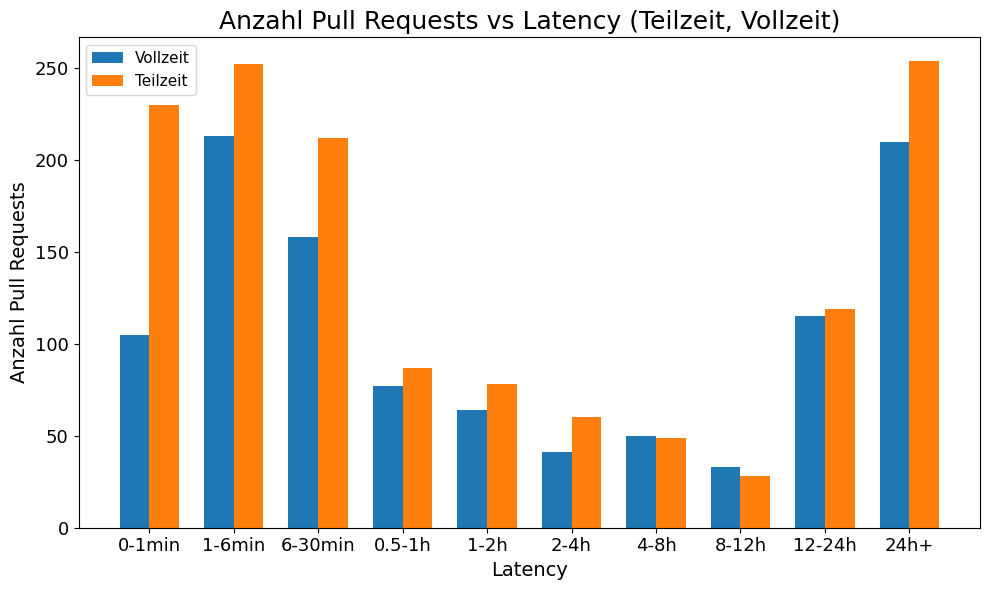
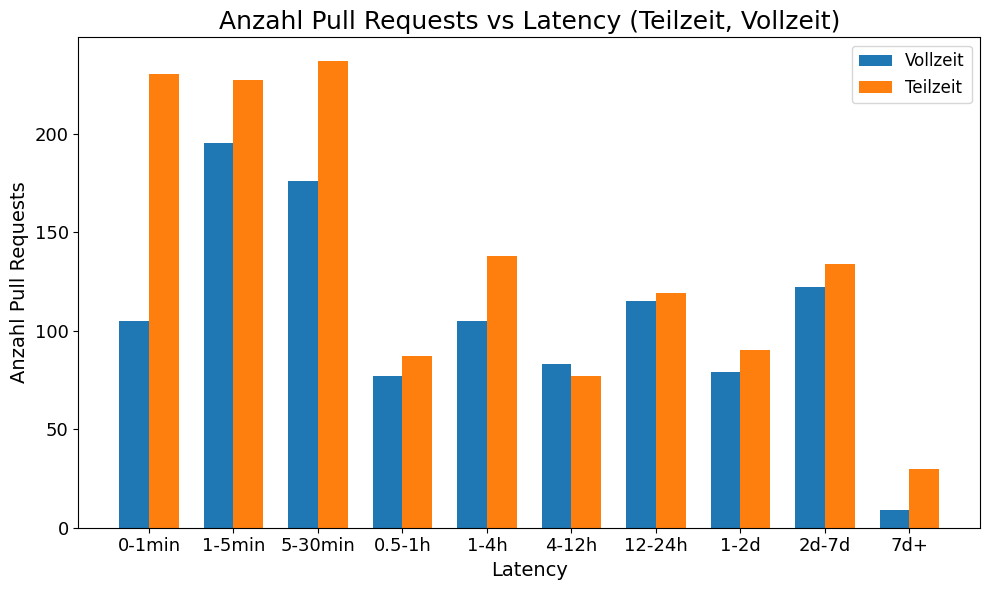
Updates from Overleaf

diff --git a/Chapters/Chapter4.tex b/Chapters/Chapter4.tex
@@ -32,13 +32,16 @@ Teilzeitstudierende nutzen Pull Requests effizienter als Vollzeitstudierende.
 Wir gehen davon aus, dass Teilzeitstudierende durch ihre Arbeit mehr Erfahrung in der Durchführung von Softwareprojekten und somit auch in der Verwendung von Pull Requests haben. Dies kann sich in Anzahl, Grösse aber auch Kommentare unterscheiden. 
 
 
+Für die ersten Experimente wurden die Repositories der Racetrack-Projekte ausgewertet. Wie im Kapitel \secref{sec:Projektmodule} erwähnt, findet dieses Projekt im Kontext des Projektmoduls 2 als erstes Projekt statt. Dieses dauert ungefähr vier Wochen, wobei die genaue Anzahl der Tage pro Klasse variieren kann. Das Grundgerüst des Sourcecodes wird in der Aufgabenstellung mitgeliefert, was die Vergleichbarkeit der Projekte erhöht. Ausserdem haben die Studenten schon Erfahrung mit der Handhabung von PullRequests. 
+
+\newpage
 \section{Churn vs Latency}
 Zur Klärung der \fref{forschungsfrage1}: "\textit{Besteht ein Zusammenhang zwischen der Latency eines Pull
 Requests (Zeit bis zum Merge oder Schliessung) und dem Churn (Anzahl geänderter Codezeilen) des jeweiligen Pull Requests?}" werden die geminten Repository Daten in einem Jupiter Notebook aufbereitet und graphisch dargestellt. Dazu werden die im Kapitel \secref{sec:Metriken} erwähnten Metriken \textit{createTime} und \textit{closeTime} gemined und damit die einzelnen Latencies berechnet. Um die Latency-Daten besser vergleichen zu können, werden diese noch vom Datumsformat in Stunden umgerechnet. Des Weiteren werden die Metriken  \textit{additions} und  \textit{deleteions} aus den Pull Requests extrahiert, um den Churn zu berechnen.
 
 \subsection{Datenanalyse}
 Zum besseren Verständnis der \textit{latency}- und \textit{churn}- Werte wird zunächst eine allgemeine Analyse der Daten durchgeführt.
-Die Analyse basiert auf 2435 extrahierten Pull Requests. In der folgenden Tabelle werden die wichtigsten Kennzahlen aufgezeigt.
+Die Analyse basiert auf 2435 extrahierten Pull Requests. Wovon im Durchschnitt 34.3 Pull Requests pro Repository erstellt werden. In der folgenden Tabelle werden die wichtigsten Kennzahlen aufgezeigt.
 
 
 \begin{table}[htbp]
@@ -74,7 +77,7 @@ Die \autoref{fig:boxplot-latency} zeigt ebenfalls, dass viele Pull Requests schn
     \caption{Boxplot Latency}
     \label{fig:boxplot-latency}
 \end{figure}
-
+ \newpage
 Der Boxplot in der \autoref{fig:boxplot-churn} zeigt, dass es viele kleine Pull Requests mit wenigen Codezeilenänderungen gibt. Wie bereits bei der \textit{latency} wurde festgestellt, dass es eine Reihe von Ausreissern gibt, von denen einige besonders hervorstechen. Diese befinden sich bei über 10'000 Zeilenänderungen. In diesem Fall liegt die Anzahl der Ausreisser bei 9.6\,\%.
 
 \begin{figure}[htbp]
@@ -83,10 +86,10 @@ Der Boxplot in der \autoref{fig:boxplot-churn} zeigt, dass es viele kleine Pull 
     \caption{Boxplot Churn}
     \label{fig:boxplot-churn}
 \end{figure}
-
+\newpage
 Werden die Ausreisser beider Metriken kumulativ aus allen Datensätzen herausgefiltert, bleiben 1887 Pull Requests übrig, was 77.5\,\% entspricht. Das Herausfiltern dieser Daten stellt einen erheblichen Eingriff in die Datenbasis dar und wird daher nicht pauschal vorgenommen.
 
-\subsection{Erbnisse}
+\subsection{Ergebnisse}
 Um festzustellen, ob zwischen den Metriken \textit{latency} und \textit{churn} ein Zusammenhang besteht wird die Spearman Rangkorrelation angewendet. Dafür wird die oben erwähnte \autoref{eqn:spearman} verwendet. Diese wird anhand der Phython Library \textit{pandas} berechnet. Als Ergebnis erreichte der Rangkorrelationskoeffizient einen Wert von 0.17. Dieser Wert liegt sehr Nahe bei null und zeigt somit keinen spezifischen Zusammenhang zwischen den beiden Metriken auf. 
 
 Wie bereits erwähnt, weisen die Daten einen hohen Anteil an Ausreissern auf. Deshalb soll überprüft werden, ob die Metriken eine Korrelation besitzen, wenn diese Ausreisser herausgefiltert werden. In diesem Fall erhöht sich der Koeffizient auf 0.2, zeigt aber weiterhin keinen eindeutigen Zusammenhang zwischen den Metriken.
@@ -94,66 +97,149 @@ Wie bereits erwähnt, weisen die Daten einen hohen Anteil an Ausreissern auf. De
 \textbf{Zusammenfassend kann zur \fref{forschungsfrage1} festgestellt werden, dass die Metriken \textit{latency} und \textit{churn} keinen Zusammenhang aufweisen.}
 
 \section{Hypothese 2: Teilzeitstudierende nutzen Pull Requests effizienter als Vollzeitstudierende}
-Zur detaillierten Analyse der Hypothese erfolgt eine Aufteilung der Repository-Daten auf Teilzeit- und Vollzeitklassen.
+Zur detaillierten Analyse der Hypothese erfolgt eine Aufteilung der Repository-Daten auf Teilzeit- und Vollzeitklassen. Die Anzahl der Pull Requests der Teilzeitklassen beläuft sich auf 1369 und jene der Vollzeitklassen auf 1066. Dabei werden durchschnittlich 31.8 Pull Requests von den Teilzeitstudierenden erstellt und 39.5 von den Vollzeitstudierenden. In der folgenden Tabelle werden die wichtigsten Kennzahlen aufgezeigt.
 
-// TODO überarbeiten
+\begin{table}[htbp]
+    \centering
+    \caption{Kennzahlen zu \textit{Latency} und \textit{Churn} von Teilzeit- und Vollzeitklassen}
+    \begin{tabular}{@{}lrrrr@{}}
+        \toprule
+        \makecell{}&
+        \makecell{\textbf{Latency (Std.)} \\ \textbf{Teilzeit}}&
+        \makecell{\textbf{Latency (Std.)} \\ \textbf{Vollzeit}}&
+        \makecell{\textbf{Churn} \\ \textbf{Teilzeit}}&
+        \makecell{\textbf{Churn} \\ \textbf{Vollzeit}}\\
+        \midrule
+        Mittelwert & 19.9 & 16.9 & 260.2 & 301.3 \\
+        Standardabweichung &  47.2 & 34.2  & 678.1 & 964.1 \\
+        Minimum & 0.0008 & 0.001 & 0.0 & 0.0 \\
+        1. Quartil (Q1) & 0.04 & 0.07 & 27.0 & 28.3\\
+        Median & 0.5 & 0.8 & 93.0 & 97.0 \\
+        3. Quartil (Q3) &  15.1 & 17.5 & 249.0 & 254.5 \\
+        Maximum & 416.3 & 265.0 & 13206.0 & 17299.0 \\
+        \bottomrule
+    \end{tabular}
+    \label{tab:deskriptive-kennzahlen-teilzeit-vollzeit}
+\end{table}
 
-Die ersten Analysen zeigen, dass pro Repository durchschnittlich 34.3 PRs erstellt werden. Die Vollzeitklassen erfassen mit durchschnittlich 39.5 PRs pro Projekt mehr PRs als die Teilzeitklassen, die im Schnitt 31.8 erzeugen. Der Median liegt bei 34 PRs.
+Die \textit{latency} zeigt, dass Teilzeitstudierende im Durchschnitt mehr Zeit benötigen, um eine Pr zu bearbeiten. Der Median zeigt jedoch, dass die Teilzeitstudierenden mehr sehr kleine Pull Requests haben. Wobei bei beiden die Bearbeitungszeit im Median deutlich kürzer ist. Man sieht auch, dass die Teilzeitstudierenden eine grössere Streuung der Bearbeitungszeiten haben. Sie haben also gewisse Pull Requests die deutlich länger dauern. Dies ist auch im Maximum zu sehen, welches bei den Teilzeitstudierenden bei 416 Stunden liegt, was 17 Tagen entspricht. Wobei die Vollzeitstudierenden ein Maximum von 265 Stunden haben, was 11 Tagen entspricht.
 
-Bezüglich des Churns weisen die PRs der Racetrack Repos 278.2 geänderte Zeilen auf, wobei der Median bei 94 Zeilen liegt. Die Vollzeitklassen verfügen mit 301.3 über grössere PRs als die Teilzeitklassen mit 260.3 Zeilen. Auch beim Median zeigt sich ein leichter Unterschied: 97 geänderte Zeilen bei den Vollzeit- gegenüber 93 bei den Teilzeitklassen. 
-
-Die durchschnittliche PR-Latenz beträgt insgesamt rund 18 Stunden und 34 Minuten. Die durchschnittliche Latenz in den Teilzeitklassen liegt bei knapp 19 Stunden und 53 Minuten, in den Vollzeitklassen bei etwa 16 Stunden und 53 Minuten. Der Median der Latenzzeit fällt jedoch deutlich kürzer aus und beträgt insgesamt nur rund 37 Minuten. Interessanterweise zeigen die Teilzeitklassen mit einem Median von 28 Minuten eine schnellere Reaktionszeit als die Vollzeitklassen, deren Median bei 48 Minuten liegt.
+Der \textit{churn} zeigt, dass Vollzeitstudierende sowohl im Durchschnitt als auch im Median mehr Zeilenänderungen pro Pull Request vornehmen. Die Standardabweichung zeigt ebenfalls, dass Vollzeitstudierende grössere Schwankungen in der Anzahl der Zeilenänderungen haben. Im Maximum ist ersichtlich, dass beide sehr grosse Prs haben, wobei sich das Maximum der Vollzeitstudierenden nochmals um mehr als 4'000 Zeilen unterscheidet.
 
 Auch die Struktur der PRs unterscheidet sich leicht zwischen den Unterrichtsmodellen: Die durchschnittliche Anzahl bearbeiteter Dateien pro PR liegt insgesamt bei 5.66 Dateien. Teilzeitklassen weisen mit 5.85 im Schnitt mehr betroffene Dateien auf als Vollzeitklassen mit 5.42 Dateien. Ebenso zeigt sich bei der durchschnittlichen Anzahl Commits pro PR ein Unterschied: Insgesamt liegt der Durchschnitt bei 7.03 Commits pro PR, wobei Teilzeitklassen auf 6.50 und Vollzeitklassen auf 7.70 Commits pro PR kommen.
 
-TODO: Verweis auf \hyref{hypothese2}
-Des Weiteren wird eine Prüfung durchgeführt, um festzustellen, ob sich Unterschiede zwischen den Vollzeit- und Teilzeitklassen ergeben. Um zu analysieren, ob es Differenzen in der Handhabung von Pull-Requests gibt. Dafür wurden die bereits erwähnten Metriken \textit{latency} und \textit{churn} anhand deren Mittelwerte geprüft. Zudem wurde eine Analyse durchgeführt, um die Verteilung der \textit{latencies} über Teilzeit- und Vollzeitklassen zu ermitteln. Zu diesem Zweck wurden folgende Zeiträume definiert: [0min - 1min], [1min - 6min], [6min - 30min], [30min - 1h], [1h-2h], [2h-4h], [4h-8h], [8h-12h], [12h-24h], [24+].
+Um die Verteilung der \textit{latencies} zu analysieren, werden die Daten in Intervalle eingeteilt. Die Festlegung dieser Intervalle erfolgte auf der Grundlage bereits analysierter Daten. Nachfolgend eine Liste dieser Intervalle und die Gründe, warum sie so definiert wurden: 
 
-Einige Teams haben die GitHub Flow Branching Strategie verwendet, während andere Teams die Git-Flow Strategie angewendet haben. Von der Git-Flow Strategie wurden jedoch nur die Branches Feature, Develop und Main genutzt. Um festzustellen, ob die Pull-Requests von Developer Branches in den Main-Branch die Verteilung der \textit{latencies} beeinflussen, wurde die obige Analyse zusätzlich ohne die Pull-Requests von den Developer Branches zu den Main Branches durchgeführt.
+\begin{itemize}
+    \item \textbf{[0-1min]}: Für Pull Requests, die sofort gemerged werden.
+    \item \textbf{[1-5min]}: Für Pull Requests, die schnell gemerged werden, bei denen aber noch genügend Zeit bleibt, sehr kleine Änderungen ernsthaft zu prüfen.
+    \item \textbf{[5-30min]}: Für kleinere oder unkomplizierte Änderungen.
+    \item \textbf{[0.5-1h]}: Um zu sehen, wie viele innerhalb einer Stunde abgeschlossen werden.
+    \item \textbf{[1-4h]}: Diese Abgrenzung wurde gewählt, da 4 Stunden einen halben Arbeitstag / Studientag widerspiegeln, zum Beispiel auch die 4 Lektionen für die Projektmodul-Vorlesung.
+    \item \textbf{[4-12h]}: 12 Stunden wurden gewählt, da dies einen halben Tag widerspiegelt, zum Beispiel wenn jemand morgens einen Pull Request eröffnet und ein Teammitglied abends Zeit hat, diesen zu bearbeiten.
+    \item \textbf{[12-24h]}: Für alle Pull Requests, die innerhalb eines Tages gemerged werden.
+    \item \textbf{[1-2d]}: Für alle Pull Requests, die mit einem Tag Verzögerung gemerged werden.
+    \item \textbf{[2-7d]}: Um zu sehen, wie viele Pull Requests in derselben Woche noch bearbeitet werden.
+    \item \textbf{[7d+]}: Für alle Pull Requests, die länger als eine Woche offen sind.
+\end{itemize}
 
 
-\section{Ergebnisse Latency vs. Churn}
+Die \autoref{fig:anz-prs-vs-latency-tv} zeigt die Pull Requests der Vollzeit- und Teilzeitklassen aufgeteilt in die oben genannten Intervalle. Es ist ersichtlich, dass ein Grossteil der Pull Requests in beiden Unterrichtsmodellen in den ersten drei Intervallen bearbeitet wurde. Im Intervall [0-1min] heben sich die Klassen der Teilzeitstudierenden jedoch stark ab. 
+Die mittleren Latenzzeiten von einer halben Stunde bis zu einem Tag sind deutlich geringer. Bei den Unterrichtsmodellen gibt es keine nennenswerten Unterschiede. Lediglich bei den Bearbeitungszeiten von einer bis vier Stunden fallen die Teilzeitstudierenden auf. Auch die Bearbeitungszeiten von einem Tag bis zu einer Woche sind noch gut vertreten. Bei mehr als sieben Tagen heben sich die Teilzeitstudierenden wieder deutlich von den Vollzeitstudierenden ab.
 
-\subsection{Teilzeit vs. Vollzeit}
-Die Auswertung der Daten ergibt, dass die Latency in den Vollzeitklassen mit 0.8 Stunden nahezu doppelt so hoch ist wie in den Teilzeitklassen, wo der Mittelwert bei 0.46 liegt. Bei den Churn-Werten ist hingegen kein signifikanter Unterschied erkennbar. Dies ist in der nachfolgenden \autoref{fig:vergleich-latency-churn} ersichtlich.
-
-\begin{figure}[ht]
-    \centering
-    \begin{subfigure}[b]{0.48\textwidth}
-        \centering
-        \includegraphics[width=\textwidth]{Figures/mittelwert-latency-t-v.png}
-        \caption{Mittelwerte Latency Vollzeit vs. Teilzeit}
-        \label{fig:mittelwert-latency-t-v}
-    \end{subfigure}
-    \hfill
-    \begin{subfigure}[b]{0.48\textwidth}
-        \centering
-        \includegraphics[width=\textwidth]{Figures/mittelwert-churn-t-v.png}
-        \caption{Mittelwerte Churn Vollzeit vs. Teilzeit}
-        \label{fig:mittelwert-churn-t-v}
-    \end{subfigure}
-    \caption{Vergleich von Latency und Churn zwischen Vollzeit und Teilzeit}
-    \label{fig:vergleich-latency-churn}
-\end{figure}
-
-\newpage
-Eine detaillierte Analyse der Latencies von Teilzeit- und Vollzeitstudierenden offenbart, dass Teilzeitklassen eine signifikant höhere Anzahl an Pull Requests aufweisen, die innerhalb einer Minute abgeschlossen werden. Dies zeigt sich im ersten Säulenpaar bei der \autoref{fig:anz-prs-vs-latency-tv}. Der Anteil der innerhalb einer Minute abgeschlossenen Pull Requests beläuft sich auf 16.8 Prozent der Gesamtzahl der Pull Requests bei den Teilzeitstudierenden, während dieser Anteil bei den Vollzeitstudierenden 9.9 Prozent beträgt. Bei allen Zeitabschnitten ausser 4–8 Stunden und 8–12 Stunden zeigen die Teilzeitklassen eine grössere Anzahl an Pull Requests, jedoch sind die grössten Differenzen bei den ersten drei und dem letzten Säulenpaar erkennbar. Eine Zusammenfassung der Pull Requests von 0 bis 30 Minuten ergibt, dass diese bei den Teilzeitklassen 50.7 Prozent und bei den Vollzeitklassen 44.7 Prozent ausmachen. Die letzte Säule zeigt einen Anteil von 18.6 Prozent für Teilzeitklassen und 19.7 Prozent für Vollzeitklassen. 
 \begin{figure}[htbp]
     \includegraphics[width=\textwidth]{Figures/anz-prs-vs-latency-tv.png}
-    \caption{Anzahl PullRequests vs. Latency (Teilzeit, Vollzeit)}
+    \caption{Anzahl Pull Requests vs. Latency (Teilzeit, Vollzeit)}
     \label{fig:anz-prs-vs-latency-tv}
 \end{figure}
 
-Die Entfernung der Datensätze, welche Merges zwischen Developer-Branches und Main-Branches abbilden, verändert die Resultate marginal. Dies ist in der \autoref{fig:anz-prs-vs-latency-tv-no-dev} ersichtlich. Ebenso überwiegen in den ersten drei Spaltenpaaren und im letzten Paar die Teilzeitklassen. Am auffälligsten ist wiederum das erste Säulenpaar. Hier beträgt der Anteil der Teilzeitstudierenden an der Gesamtzahl der Teilzeitstudierenden 16 Prozent und bei den Vollzeitklassen 9.3 Prozent. Die Anzahl der Pull-Requests, die in weniger als einer Minute bearbeitet werden, ist also in beiden Klassen zurückgegangen, liegt aber in beiden Fällen unter einem Prozent.
-Addiert man die ersten drei Säulenpaare, so ergibt sich für die Teilzeitklassen ein Wert von 49.7 Prozent und für die Vollzeitklassen ein Wert von 43.3 Prozent. Damit liegen die Werte für die Teilzeit um genau ein Prozent und für die Vollzeit um 1.4 Prozent niedriger. Bei den 24 Stunden plus beträgt der Wert bei den Teilzeitklassen 19 Prozent, was einer Differenz von 0.4 Prozent entspricht. Bei den Vollzeitklassen beträgt der Wert 20.2 Prozent, was einem Anstieg von 0.5 Prozent gleichkommt.
+Da in der Datenbasis mehr Teilzeitklassen und somit mehr Repositories vorhanden sind, werden die Daten auf die Anzahl der Repositories normiert, was eine unabhängigere Analyse ermöglicht.
+
+Die \autoref{fig:anz-avg-prs-vs-latency-tv} zeigt nun, dass die Teilzeitstudierenden zwar immer noch viele Pull Requests innerhalb einer halben Stunde bearbeiten, aber nur im ersten Segment die Vollzeitstudierenden übertreffen. In den mittleren Intervallen sind die Teilzeitstudierenden relativ ausgeglichen, aber deutlich weniger als in den ersten drei Intervallen. Bei den Bearbeitungszeiten von mehr als sieben Tagen sind sie jedoch wieder stärker vertreten. Die Vollzeitstudierenden sind über alle Intervalle ausgeglichener, haben aber auch viele schnell bearbeiteten Pull Requests.
+
 
 \begin{figure}[htbp]
-    \includegraphics[width=\textwidth]{Figures/anz-prs-vs-latency-tv-no-dev.png}
-    \caption{Anzahl PullRequests vs. Latency (Teilzeit, Vollzeit) ohne Dev zu Main}
-    \label{fig:anz-prs-vs-latency-tv-no-dev}
+    \includegraphics[width=\textwidth]{Figures/anz-avg-prs-vs-latency-tv.png}
+    \caption{Durchschnittliche Anzahl Pull Requests vs. Latency (Teilzeit, Vollzeit)}
+    \label{fig:anz-avg-prs-vs-latency-tv}
+\end{figure}
+\newpage
+Insgesamt bestätigen die Abbildungen \autoref{fig:anz-prs-vs-latency-tv} und \autoref{fig:anz-avg-prs-vs-latency-tv}, dass die meisten Pull Requests schnell bearbeitet werden. Des Weiteren zeigt es, dass die Teilzeitstudierenden eine stärkere Streuung aufweisen als Vollzeitstudierende, da sie die Vollzeitstudierenden im ersten und letzten Intervall übertreffen.
+
+// TODO Churn Latency
+\newpage
+Zur Klassifikation der Churn Grösse werden die von Doğan und Tüzün vorgeschlagenen Grössenkateogrien (XS, S, M, L, XL) verwendet. Diese Einteilung basiert auf empirischen Studien und industriellen Standards. \parencite{dogan_towards_2022}
+
+Während der manuellen Untersuchung für die \fref{forschungsfrage2} wurde festgestellt, dass einige PRs einen Churn über 10'000 aufweisen. Entweder handelt es sich hierbei um geschlossene PRs welche entweder ausversehen erstellt oder beispielsweise mit dem falschen Zielbranch erstellt werden. Um diese zusätzlich klassifizieren zu können, wurde eine zusätzliche Grösse \textit{XXL} mit Churn \textit{10'000} erstellt. 
+
+Somit ergibt sich für die Analyse folgende Klassifizierung: 
+\begin{table}[ht]
+\caption{Churn Grössenkategorien}
+\label{tab:churnkategorien}
+\centering
+\begin{tabular}{l l}
+\toprule
+\textbf{Kategorie} & \textbf{Churn} \\
+\midrule
+XS  & 0--9       \\
+S        & 10--49     \\
+M        & 50--199    \\
+L         & 200--999   \\
+XL   & 1000--9999 \\
+XXL  & 10000+ \\
+\bottomrule
+\end{tabular}
+\end{table}
+
+
+Abbildung \autoref{fig:anz-prs-vs-churn-size-tz-vz} zeigt die Pull Request der Voll- und Teilzeitklassen aufgeteilt nach ihrer Churn Grösse. So ist sichtbar, dass die Teilzeitklassen insegsamt mehr PRs erstellen. Dieser Trend ist in allen Grössenaktegorien sichtbar, ausser bei den \textit{XXL} PRs. Hier verfügen die Teilzeitklassen ingesamt über 2 PRs, während die Teilzeitklassen 5 PRs mit einem Churn über 10'000 verfügen. Bei den \textit{XXS} PRs verfügen die Teilzeitklassen über 1.5x so viele PRs.
+
+\begin{figure}[htbp]
+    \includegraphics[width=\textwidth]{Figures/anz-prs-vs-churn-size-tz-vz.png}
+    \caption{Anzahl PullRequests vs. Churn Grösse (Teilzeit, Vollzeit)}
+    \label{fig:anz-prs-vs-churn-size-tz-vz}
 \end{figure}
 
+Eine Normalisierung der Daten pro Repo zeigt, dass die Vollzeitklassen entweder gleich viel oder mehr PRs pro Kategorie erstellen. Die Teilzeitklassen erstellen jedochh 
+
+\begin{figure}[htbp]
+    \includegraphics[width=\textwidth]{Figures/avg-anz-prs-vs-churn-size-tz-vz-pro-repo.png}
+    \caption{Durchschnittliche Anzahl PullRequests vs. Churn Grösse pro Projekt(Teilzeit, Vollzeit)}
+    \label{fig:anz-prs-vs-churn-size-tz-vz}
+\end{figure}
+
+Die für die \fref{forschungsfrage2} benötigte manuelle Untersuchung ergab, dass in einigen Klassen das in Kapitel \secref{sec:GitFlow} eingeführte Branching Konzept \textit{Git Flow} verwendet haben. Dies verfälscht eventuell die Daten, da es sich bei den manuell untersuchten Pull Requests um grosse PRs (Churn) handelt, welche keinen Review erfordern. Aus diesem Grund, werden die Analysen erneut durchgeführt jedoch mit herausgefilterten Dev Branches.
+
+Da die Namen der Dev-Branches nicht einheitlich sind, werden alle Branches herausgefiltert, die das Wort Dev enthalten und auf den Main/Master Branch gemerged werden. Dabei ist zu beachten, dass GitHub den heutigen Haupt-Branch Main nennt, während dieser früher Master hiess. In der manuellen Analyse wurde festgestellt, dass einige Klassen aus dem Jahr 2021 immer noch solche Master Branches verwenden. Zusätzlich wurden alle herausgefilterten Pull Requests überprüft, um sicherzustellen, dass ausschliesslich Dev-Branches entfernt werden. Es wurden 75 Pull Requests von Dev-Branches zu Main-Branches ermittelt.
+
+
+%// TODO anpassen wenn überhaupt beide grafiken
+% Die Entfernung der Datensätze, welche Merges zwischen Developer-Branches und Main-Branches abbilden, verändert die Resultate marginal. Dies ist in der \autoref{fig:anz-prs-vs-latency-tv-no-dev} ersichtlich. Ebenso überwiegen in den ersten drei Spaltenpaaren und im letzten Paar die Teilzeitklassen. Am auffälligsten ist wiederum das erste Säulenpaar. Hier beträgt der Anteil der Teilzeitstudierenden an der Gesamtzahl der Teilzeitstudierenden 16 Prozent und bei den Vollzeitklassen 9.3 Prozent. Die Anzahl der Pull-Requests, die in weniger als einer Minute bearbeitet werden, ist also in beiden Klassen zurückgegangen, liegt aber in beiden Fällen unter einem Prozent.
+% Addiert man die ersten drei Säulenpaare, so ergibt sich für die Teilzeitklassen ein Wert von 49.7 Prozent und für die Vollzeitklassen ein Wert von 43.3 Prozent. Damit liegen die Werte für die Teilzeit um genau ein Prozent und für die Vollzeit um 1.4 Prozent niedriger. Bei den 24 Stunden plus beträgt der Wert bei den Teilzeitklassen 19 Prozent, was einer Differenz von 0.4 Prozent entspricht. Bei den Vollzeitklassen beträgt der Wert 20.2 Prozent, was einem Anstieg von 0.5 Prozent gleichkommt.
+
+% \begin{figure}[htbp]
+%     \includegraphics[width=\textwidth]{Figures/anz-prs-vs-latency-tv-no-dev.png}
+%     \caption{Anzahl PullRequests vs. Latency (Teilzeit, Vollzeit) ohne Dev zu Main}
+%     \label{fig:anz-prs-vs-latency-tv-no-dev}
+% \end{figure}
+
+Die \autoref{fig:anz-avg-prs-vs-latency-tv-no-dev} zeigt kaum Differenzen zur \autoref{fig:anz-avg-prs-vs-latency-tv}. Generell hat die durchschnittliche Anzahl der Pull Requests abgenommen, aber die Verteilung der Pull Requests unabhängig vom Unterrichtsmodell hat sich kaum verändert. 
+
+\begin{figure}[htbp]
+    \includegraphics[width=\textwidth]{Figures/anz-avg-prs-vs-latency-tv-no-dev.png}
+    \caption{Durchschnittliche Anzahl Pull Requests vs. Latency (Teilzeit, Vollzeit) ohne Dev zu Main}
+    \label{fig:anz-avg-prs-vs-latency-tv-no-dev}
+\end{figure}
 \newpage
+
+Somit zeigt sich, dass Dev-Branches keinen Einfluss auf die \textit{latencies} haben.
+
+
+
+\subsection{Einfluss von Projektzeit}
+Ein signifikanter Faktor, der bei Projektmodulen eine Rolle spielt, ist die fest definierte Abgabefrist. Dies unterscheidet diese Projekte von den Open-Source-Projekten, die in der Literatur häufig untersucht werden. Es soll nun untersucht werden, ob der Zeitpunkt der Erstellung eines Pull-Requests innerhalb der Projektlaufzeit einen Einfluss auf die Bearbeitung und vor allem auf die Dauer hat. Dafür wurde zusätzlich zu den oben genannten Metriken noch das Abgabedatum der einzelnen Klassen ermittelt. Da einige Dozenten ihr Feedback mittels Pull Request abgegeben haben, wurden alle Pull Requests herausgefiltert, die von einem Dozenten erstellt wurden. Dies wurde über das Attribut \textit{Author} ermittelt.
+
+Es wurden verschiedene Analysen anhand eines Phyton Notebooks vorgenommen. Die erste Untersuchung analysierte, ob generell ein Zusammenhang über die \textit{latency} und \textit{churn} im Verlauf der Projektzeit festgestellt werden kann.  Um der in der Einleitung formulierten Hypothese nachzugehen, wurden die Pull Requests, die innerhalb von 30 Minuten und einer Minute gemerged wurden, ins Verhältnis zur Projektabgabe gesetzt und graphisch dargestellt. Des Weiteren wurden alle Pull Requests in Verbindung zur Abgabe gesetzt, um herauszufinden, wann die Pull Requests generell erstellt und bearbeitet wurden.  Darüber hinaus wurde analysiert, wie viele Pull Requests die Teams innerhalb der letzten 3 Projekttage und des letzten Projekttages noch abgearbeitet haben.
 \subsection{Ergebnisse Einfluss Projektzeit}
 Anhand der \autoref{fig:mittelwert-woche-lateny} ist ersichtlich, dass die Latency gegen Ende der Projektzeit abnimmt. Während die Churn (\autoref{fig:mittelwert-woche-churn}) bis zur 5. Woche ansteigt. 
 Zu beachten ist, dass, wie bereits im Kapitel \secref{sec:Projektmodule} erwähnt, die Projekte nicht exakt 28 Tage dauern. Die ermittelten Projektlaufzeiten liegen zwischen 20 und 36 Tagen.
@@ -331,6 +417,43 @@ Wie in Abbildung \autoref{fig:closed-prs-projektkeit-teilzeit} deutlich wird, wu
 
 
 \section{Ergebnisse Entwicklungsaktivität}
+Für die Analyse der Entwicklungsaktivität wurde das Jupyter Notebook \textit{analyse-wochen-latency-churn.ipynb} erstellt \parencite{stumpf_simon_repo-detectivesba-metric-analysis-scripts_nodate}. 
+
+Um die Entwicklungsaktivität messbar machen zu können, mussten für alle Klassen die Projektmodul-Unterrichtstage ermittelt werden:
+\begin{table}[ht]
+\caption{Projektmodul-Unterrichtstage der Klassen}
+\label{tab:stundenplan}
+\centering
+\begin{tabular}{l l l}
+\toprule
+\textbf{Klasse} & \textbf{Ort} & \textbf{Tag} \\
+\midrule
+It21tb   & Zürich      & Montag      \\
+It21ta   & Zürich      & Montag      \\
+It21a    & Zürich      & Mittwoch    \\
+It21tb   & Winterthur  & Donnerstag  \\
+It21a    & Winterthur  & Freitag     \\
+It21b    & Winterthur  & Freitag     \\
+It21ta   & Winterthur  & Freitag     \\
+\midrule
+It23tb   & Zürich      & Montag      \\
+It23ta   & Zürich      & Montag      \\
+It23a    & Zürich      & Mittwoch    \\
+It23b    & Zürich      & Mittwoch    \\
+It23a    & Winterthur  & Freitag     \\
+It23ta   & Winterthur  & Freitag     \\
+It23tb   & Winterthur  & Freitag     \\
+\midrule
+It24tb   & Zürich      & Montag      \\
+It24ta   & Zürich      & Montag      \\
+It24a    & Zürich      & Mittwoch    \\
+It24a    & Winterthur  & Freitag     \\
+It24ta   & Winterthur  & Freitag     \\
+It24tb   & Winterthur  & Freitag     \\
+\bottomrule
+\end{tabular}
+\end{table}
+
 Empirische Studien zeigen, dass die Entwicklungsaktivität in Open-Source-Projekten auf Plattformen wie GitHub charakteristische Muster im Wochenverlauf aufweist. Insbesondere an Wochenenden ist die Aktivität signifikant geringer als unter der Woche. Innerhalb der Arbeitswoche fallen Montag und Freitag häufig als die Tage mit der geringsten Aktivität auf. Das Phänomen des Rückgangs der Entwicklungsaktivität wird oftmals auch \textit{Friday Effect} genannt. \parencite{claes_programmers_2018}
 
 Da sich während der Analyse deutliche Differenzen zwischen den Voll- und Teilzeitklassen ergaben, wurden diese in der Analyse geteilt angeschaut. 
@@ -430,50 +553,3 @@ Ein ähnliches Bild ergibt sich bei den Vollzeitklassen. Abbildung \autoref{fig:
 \subsection{Latency und Churn}
 \subsection{Allgemeine Korrelationen}
 
-
-
-\subsection{Einfluss von Projektzeit}
-Ein signifikanter Faktor, der bei Projektmodulen eine Rolle spielt, ist die fest definierte Abgabefrist. Dies unterscheidet diese Projekte von den Open-Source-Projekten, die in der Literatur häufig untersucht werden. Es soll nun untersucht werden, ob der Zeitpunkt der Erstellung eines Pull-Requests innerhalb der Projektlaufzeit einen Einfluss auf die Bearbeitung und vor allem auf die Dauer hat. Dafür wurde zusätzlich zu den oben genannten Metriken noch das Abgabedatum der einzelnen Klassen ermittelt. Da einige Dozenten ihr Feedback mittels Pull Request abgegeben haben, wurden alle Pull Requests herausgefiltert, die von einem Dozenten erstellt wurden. Dies wurde über das Attribut \textit{Author} ermittelt.
-
-Es wurden verschiedene Analysen anhand eines Phyton Notebooks vorgenommen. Die erste Untersuchung analysierte, ob generell ein Zusammenhang über die \textit{latency} und \textit{churn} im Verlauf der Projektzeit festgestellt werden kann.  Um der in der Einleitung formulierten Hypothese nachzugehen, wurden die Pull Requests, die innerhalb von 30 Minuten und einer Minute gemerged wurden, ins Verhältnis zur Projektabgabe gesetzt und graphisch dargestellt. Des Weiteren wurden alle Pull Requests in Verbindung zur Abgabe gesetzt, um herauszufinden, wann die Pull Requests generell erstellt und bearbeitet wurden.  Darüber hinaus wurde analysiert, wie viele Pull Requests die Teams innerhalb der letzten 3 Projekttage und des letzten Projekttages noch abgearbeitet haben.
-
-
-
-\pagebreak
-\section{Analyse Entwicklungsaktivität}
-Für die Analyse der Entwicklungsaktivität wurde das Jupyter Notebook \textit{analyse-wochen-latency-churn.ipynb} erstellt \parencite{stumpf_simon_repo-detectivesba-metric-analysis-scripts_nodate}. 
-
-Um die Entwicklungsaktivität messbar machen zu können, mussten für alle Klassen die Projektmodul-Unterrichtstage ermittelt werden:
-\begin{table}[ht]
-\caption{Projektmodul-Unterrichtstage der Klassen}
-\label{tab:stundenplan}
-\centering
-\begin{tabular}{l l l}
-\toprule
-\textbf{Klasse} & \textbf{Ort} & \textbf{Tag} \\
-\midrule
-It21tb   & Zürich      & Montag      \\
-It21ta   & Zürich      & Montag      \\
-It21a    & Zürich      & Mittwoch    \\
-It21tb   & Winterthur  & Donnerstag  \\
-It21a    & Winterthur  & Freitag     \\
-It21b    & Winterthur  & Freitag     \\
-It21ta   & Winterthur  & Freitag     \\
-\midrule
-It23tb   & Zürich      & Montag      \\
-It23ta   & Zürich      & Montag      \\
-It23a    & Zürich      & Mittwoch    \\
-It23b    & Zürich      & Mittwoch    \\
-It23a    & Winterthur  & Freitag     \\
-It23ta   & Winterthur  & Freitag     \\
-It23tb   & Winterthur  & Freitag     \\
-\midrule
-It24tb   & Zürich      & Montag      \\
-It24ta   & Zürich      & Montag      \\
-It24a    & Zürich      & Mittwoch    \\
-It24a    & Winterthur  & Freitag     \\
-It24ta   & Winterthur  & Freitag     \\
-It24tb   & Winterthur  & Freitag     \\
-\bottomrule
-\end{tabular}
-\end{table}

diff --git a/Chapters/Chapter2.tex b/Chapters/Chapter2.tex
@@ -66,6 +66,7 @@ Am Ende eines Pull Requests wird dieser entweder akzeptiert und in den zuvor aus
 \section{Branching Strategien}
 Es existieren verschiedene Branching-Strategien. Die für diese Studie erwähnenswerten Strategien sind der Git Flow und der GitHub Flow. \parencite{priyanka_gowdaashwath_narayana_gowda_git-branching-and-release-strategies_2022} 
 \subsection{Git Flow}
+\label{sec:GitFlow}
 Der Git Flow wurde 2010 von Vincent Driessen vorgestellt, als ein robustes Branching-Konzept, welches für jedes Projekt passen soll \parencite{priyanka_gowdaashwath_narayana_gowda_git-branching-and-release-strategies_2022}.
 Diese Strategie besteht aus zwei Hauptbranches:
 \begin{itemize}
@@ -82,6 +83,7 @@ Neue Funktionen werden in Feature Branches entwickelt und nach Beendigung in den
 \parencite{priyanka_gowdaashwath_narayana_gowda_git-branching-and-release-strategies_2022}
 
 \subsection{GitHub Flow}
+\label{sec:GitHubFlow}
 Die GitHub Flow Strategie ist eine vereinfachte und leichtgewichtige Methode. Sie besteht aus den folgenden Branches:
 \begin{itemize}
     \item Main: Beinhaltet den produktionsreifen Code  
@@ -130,7 +132,7 @@ Vergleicht man die Git-Repositories der Projektmodule mit Open-Source-Projekten,
 
 Ein weiterer Unterschied liegt im Entwicklungstempo. Open-Source-Projekte folgen keinem festen Zeitplan, sondern entwickeln sich in einem unregelmässigen Rhythmus, da die Beteiligung stark von der Verfügbarkeit der Maintainers abhängt. Gewisse Features werden schnell implementiert, während andere über längere Zeiträume hinweg stagnieren. In akademischen Projektmodulen hingegen ist der Arbeitsaufwand gleichmässiger verteilt, da die Studierenden festen Abgabefristen folgen müssen. Dies führt zu einer planbaren, wenn auch vergleichsweise langsamen Entwicklungsgeschwindigkeit.
 
-In den OpenSource-Projekten spielen die User-Metriken der Contributors eine wichtige Rolle. So wird beispielsweise die Anzahl der Followers des Entwicklers als ein Hinweis auf seinen Status und Ruf in der Community gewertet. Untersuchungen zeigen, dass Beiträge von Nutzern mit vielen Followern eine höhere Chance, akzeptiert zu werden (pro Standardabweichung an zusätzlichen Followern steigt die Wahrscheinlichkeit der Merge-Annahme um 18\%). Auch projektbezogene Metriken wie eine hohe Anzahl Stars des Projektes spielen hierbei eine Rolle. \parencite{tsay_influence_2014}
+In den OpenSource-Projekten spielen die User-Metriken der Contributors eine wichtige Rolle. So wird beispielsweise die Anzahl der Followers des Entwicklers als ein Hinweis auf seinen Status und Ruf in der Community gewertet. Untersuchungen zeigen, dass Beiträge von Nutzern mit vielen Followern eine höhere Chance haben, akzeptiert zu werden (pro Standardabweichung an zusätzlichen Followern steigt die Wahrscheinlichkeit der Merge-Annahme um 18\%). Auch projektbezogene Metriken wie eine hohe Anzahl Stars des Projektes spielen hierbei eine Rolle. \parencite{tsay_influence_2014}. Mit einem Github Star kann der Benutzer einem Repository / Organisation folgen und wird somit auf Neuigkeiten aufmerksam gemacht. Ausserdem ist es in der Community oftmals ein Zeichen, um die Wertschätzung für ein Projekt zu zeigen \parencite{noauthor_saving_nodate}.
 
 \section{Einführung GitGauge}
 Das in der ZHAW entwickelte Tool \textit{GitGauge} ist ein Repository-Mining- und Analyse-Tool zur Auswertung von GitHub-Repositories. Das Tool wurde von Joel Grand mit Betreuung von Michael Wahler im Rahmen seines Masterstudiums entwickelt . \parencite{grand_joel_wahler_michael_waspe_lara_stumpf_simon_repo_nodate}.
@@ -166,11 +168,3 @@ Die Analyse der Daten erfolgt jeweils bei Abfrage der Statistik API Endpoints de
     \caption{Übersicht Mining Prozess \parencite{grand_joel_vt1_joelgrand_repository_2024}}
     \label{fig:overview-mining-steps}
 \end{figure}
-
-
-alter Text:
-Für die ersten Experimente wurden die Repositories der Racetrack-Projekte ausgewertet. Wie im Kapitel \secref{sec:Projektmodule} erwähnt, findet dieses Projekt im Kontext des Projektmoduls 2 als erstes Projekt statt. Dieses dauert ungefähr vier Wochen, wobei die genaue Anzahl der Tage pro Klasse variieren kann. Das Grundgerüst des Sourcecodes wird in der Aufgabenstellung mitgeliefert, was die Vergleichbarkeit der Projekte erhöht. Ausserdem haben die Studenten schon Erfahrung mit der Handhabung von PullRequests. 
-
-
-
-
